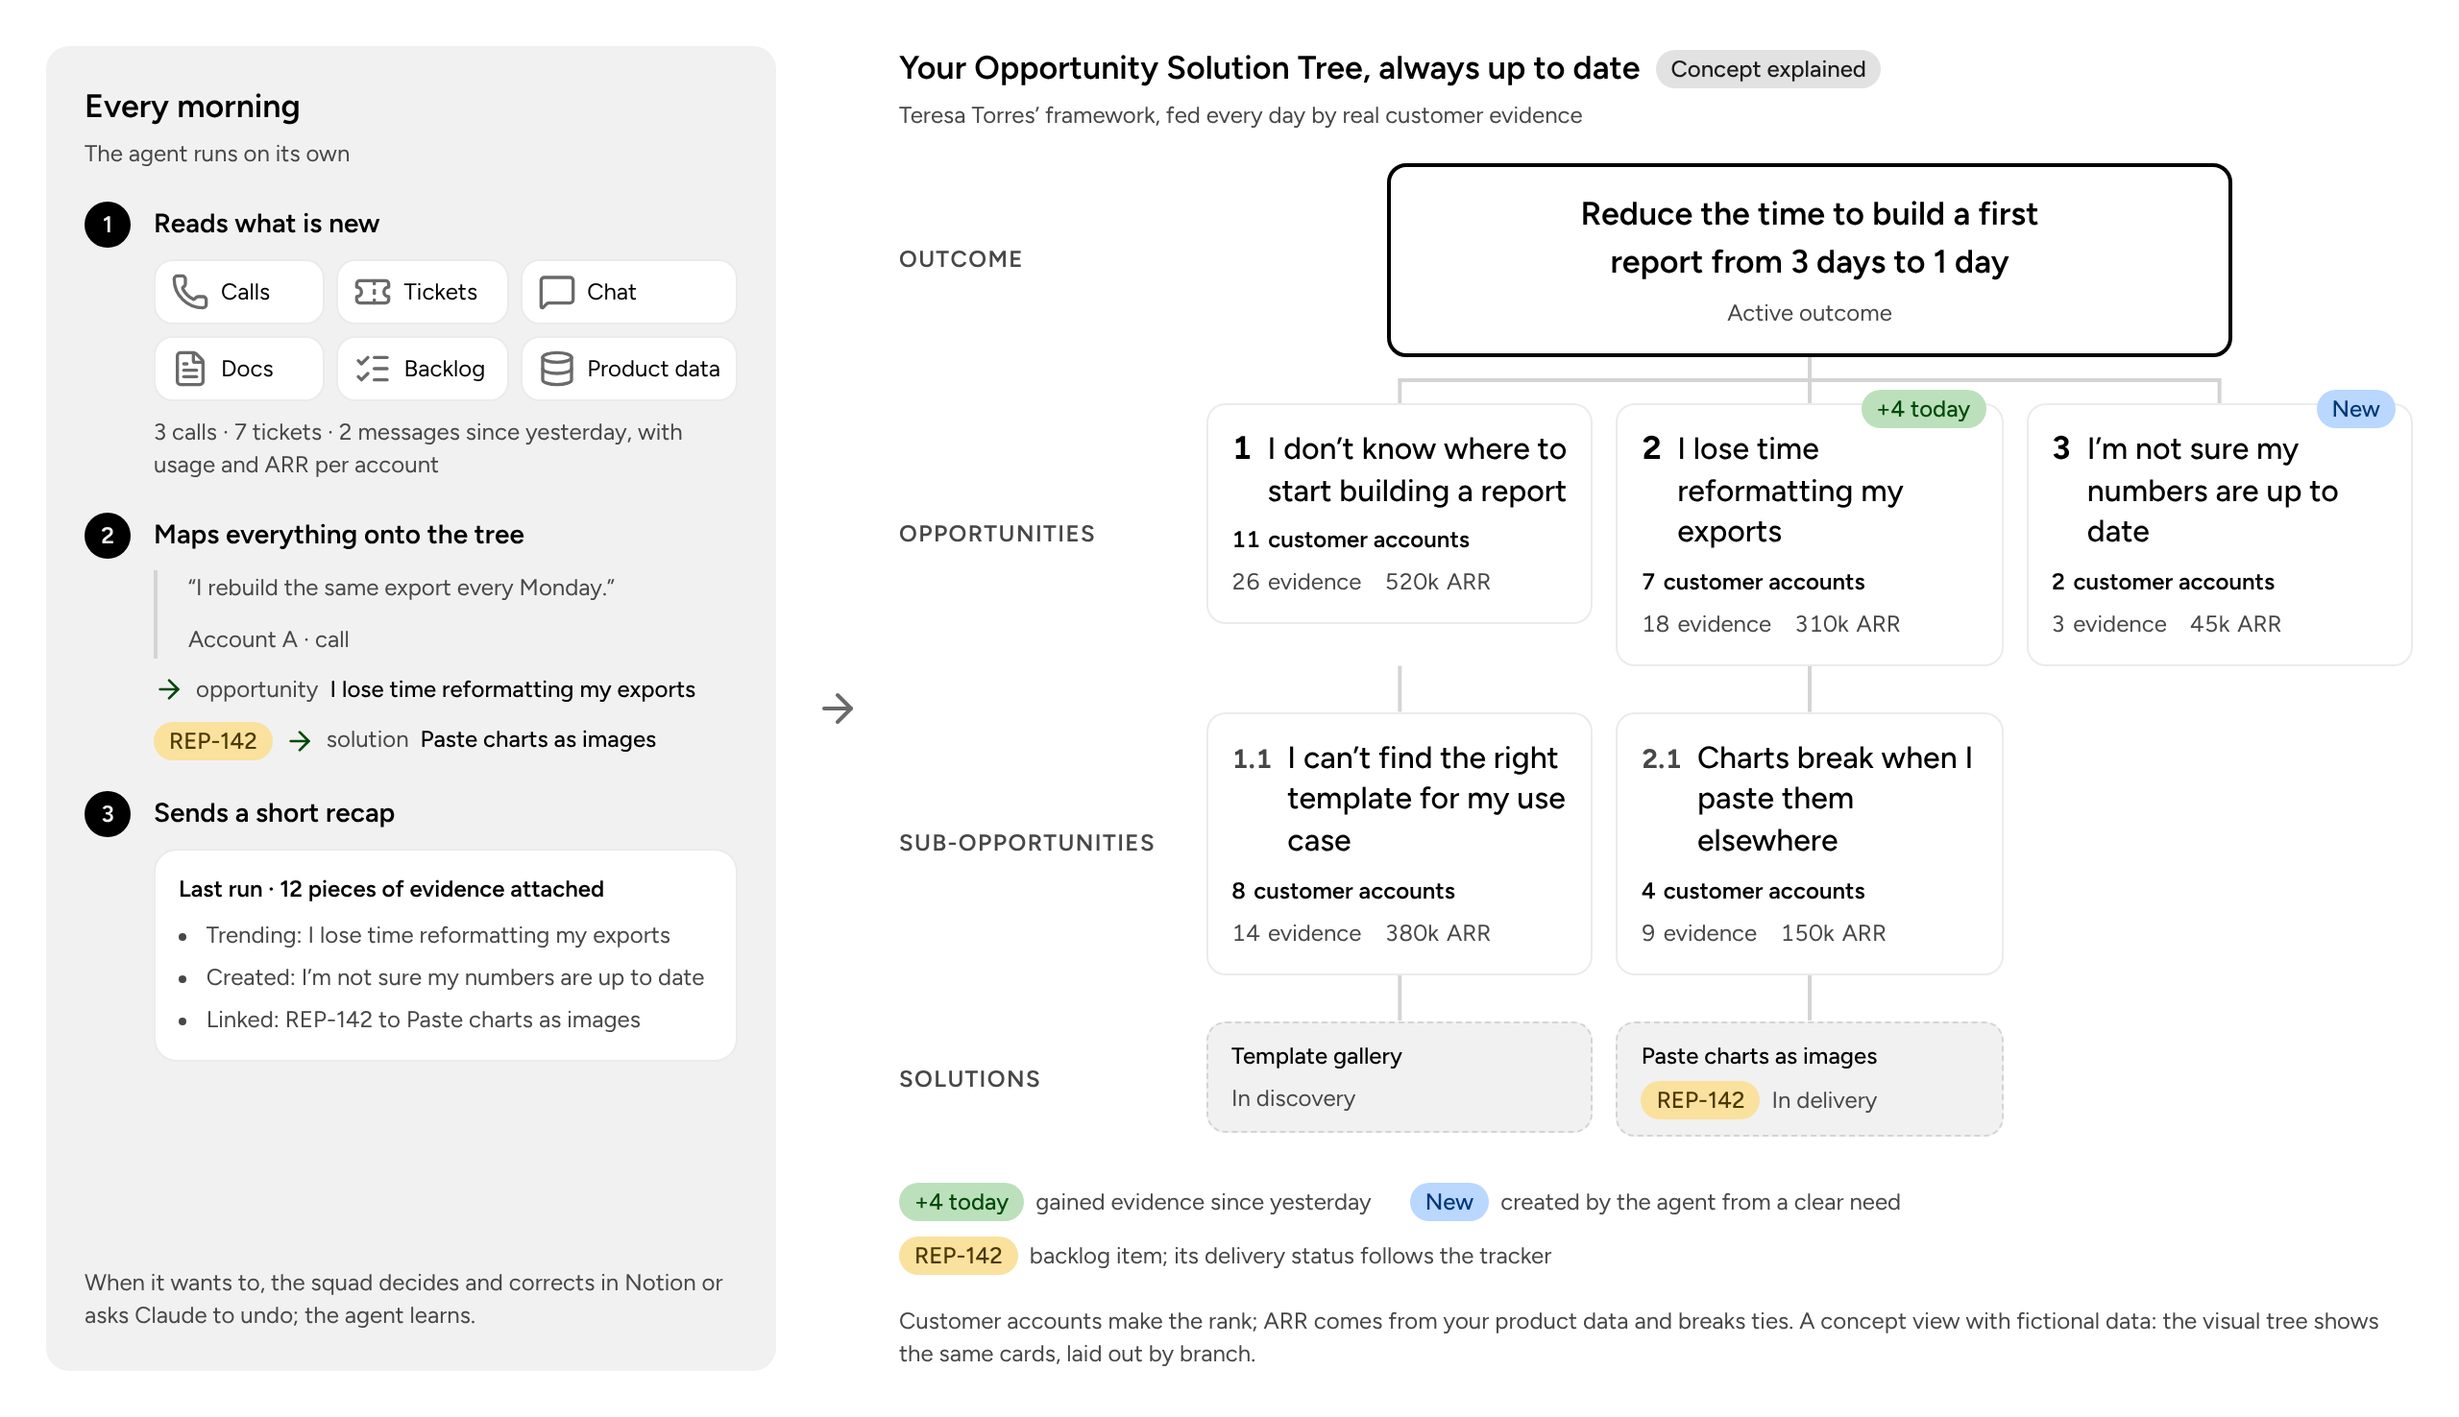
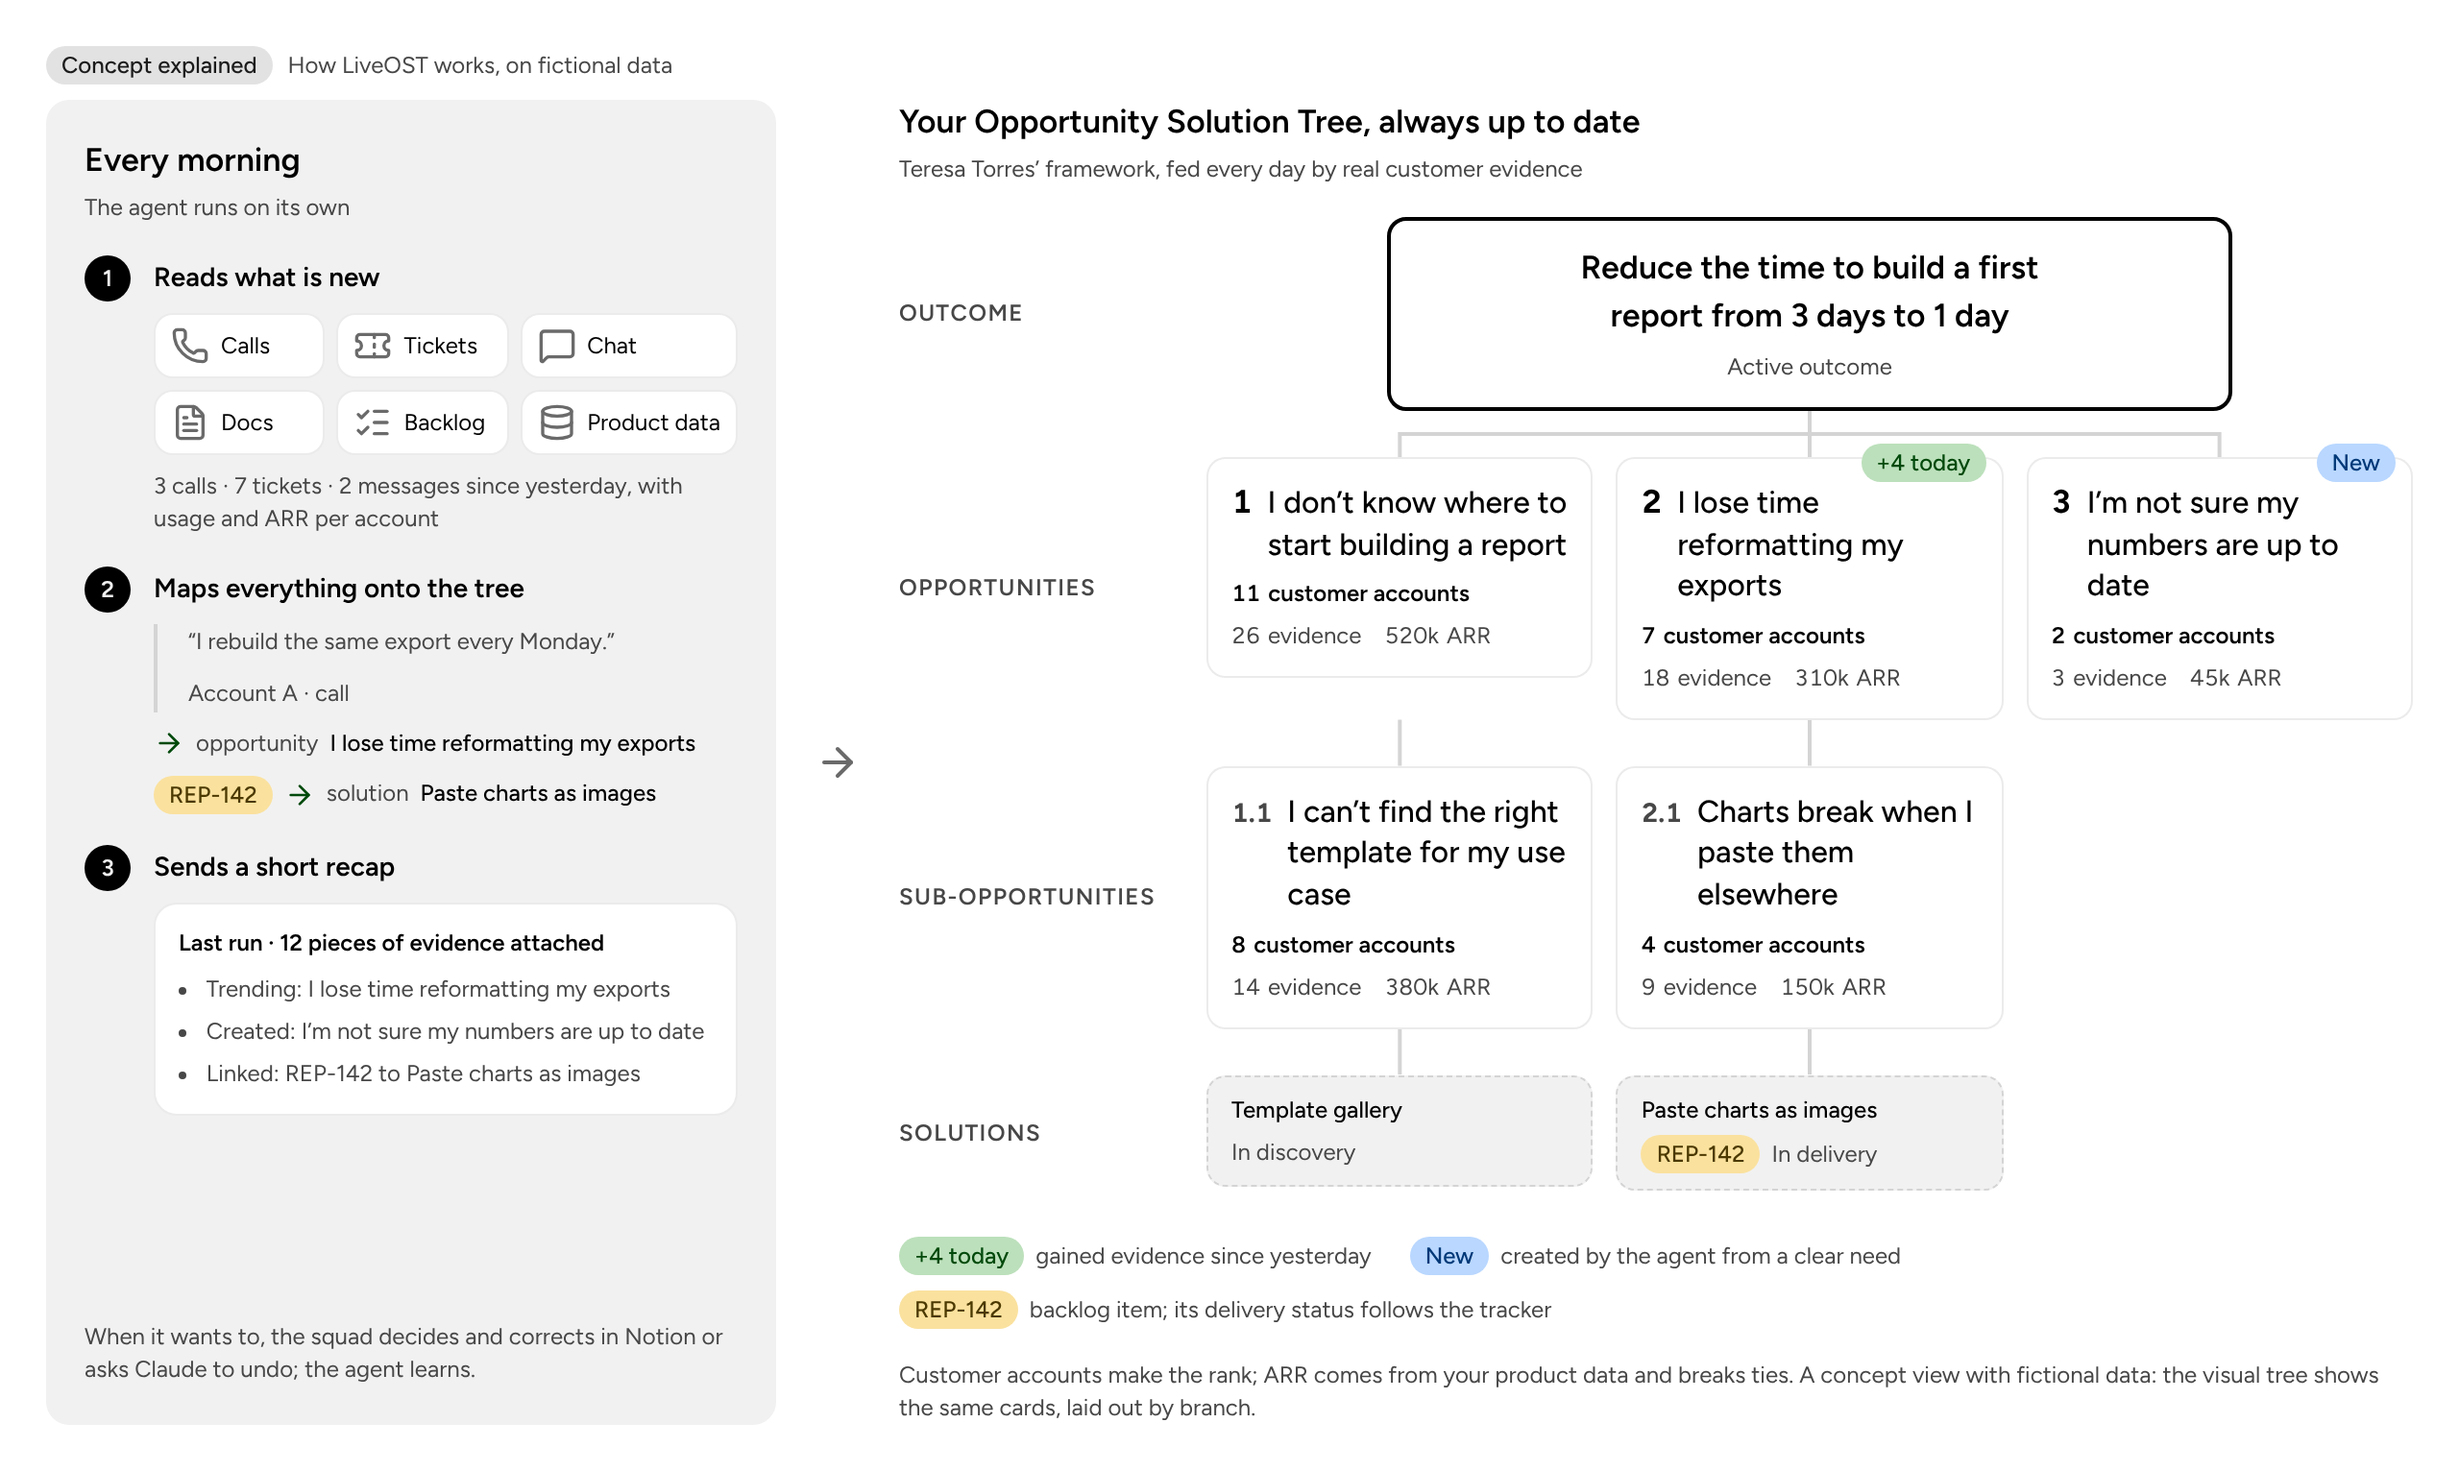
README image: the Concept explained label heads the whole image
The label now sits above both panels, with "How LiveOST works, on
fictional data": the whole image explains the concept and is not a
screenshot of the visual tree.

Claude-Session: https://claude.ai/code/session_017TGvRX39rNK9Lm1vUH9QZ4

diff --git a/view/readme-visual/styles.css b/view/readme-visual/styles.css
@@ -13,7 +13,6 @@ body { margin: 0; background: var(--color-background-card); }
   background: var(--color-background-card);
 }
 .panel-title { margin: 0; font-size: var(--font-size-lg); font-weight: var(--font-weight-semibold); color: var(--color-text-primary); }
-.title-with-badge { display: flex; align-items: center; gap: var(--spacing-2); }
 .panel-sub { margin: var(--spacing-1) 0 var(--spacing-4); font-size: var(--font-size-sm); color: var(--color-text-secondary); }
 .muted { margin: 0; font-size: var(--font-size-sm); color: var(--color-text-secondary); }
 .footnote { margin-top: var(--spacing-4); }
@@ -104,3 +103,6 @@ body { margin: 0; background: var(--color-background-card); }
 
 .legend { list-style: none; margin: var(--spacing-6) 0 0; padding: 0; display: flex; flex-wrap: wrap; gap: var(--spacing-2) var(--spacing-5); font-size: var(--font-size-sm); color: var(--color-text-secondary); }
 .legend li { display: flex; align-items: center; gap: var(--spacing-1-5); }
+
+/* The label that says the whole image explains the concept: it is not a screenshot of the visual tree. */
+.visual-head { grid-column: 1 / -1; display: flex; align-items: center; gap: var(--spacing-2); margin-bottom: calc(-1 * var(--spacing-2)); }

diff --git a/view/readme-visual/main.jsx b/view/readme-visual/main.jsx
@@ -153,9 +153,7 @@ function Tree() {
   const paths = useConnectors(ref);
   return (
     <section className="tree-panel">
-      <h2 className="panel-title title-with-badge">
-        Your Opportunity Solution Tree, always up to date <Badge variant="neutral" label="Concept explained" />
-      </h2>
+      <h2 className="panel-title">Your Opportunity Solution Tree, always up to date</h2>
       <p className="panel-sub">Teresa Torres’ framework, fed every day by real customer evidence</p>
       <div className="tree" ref={ref}>
         <svg className="links" aria-hidden="true">
@@ -222,6 +220,10 @@ function Tree() {
 function Visual() {
   return (
     <main className="visual" id="visual">
+      <div className="visual-head">
+        <Badge variant="neutral" label="Concept explained" />
+        <span className="muted">How LiveOST works, on fictional data</span>
+      </div>
       <Morning />
       <div className="between" aria-hidden="true">
         <Icon icon={ArrowRight} size="lg" color="tertiary" />
